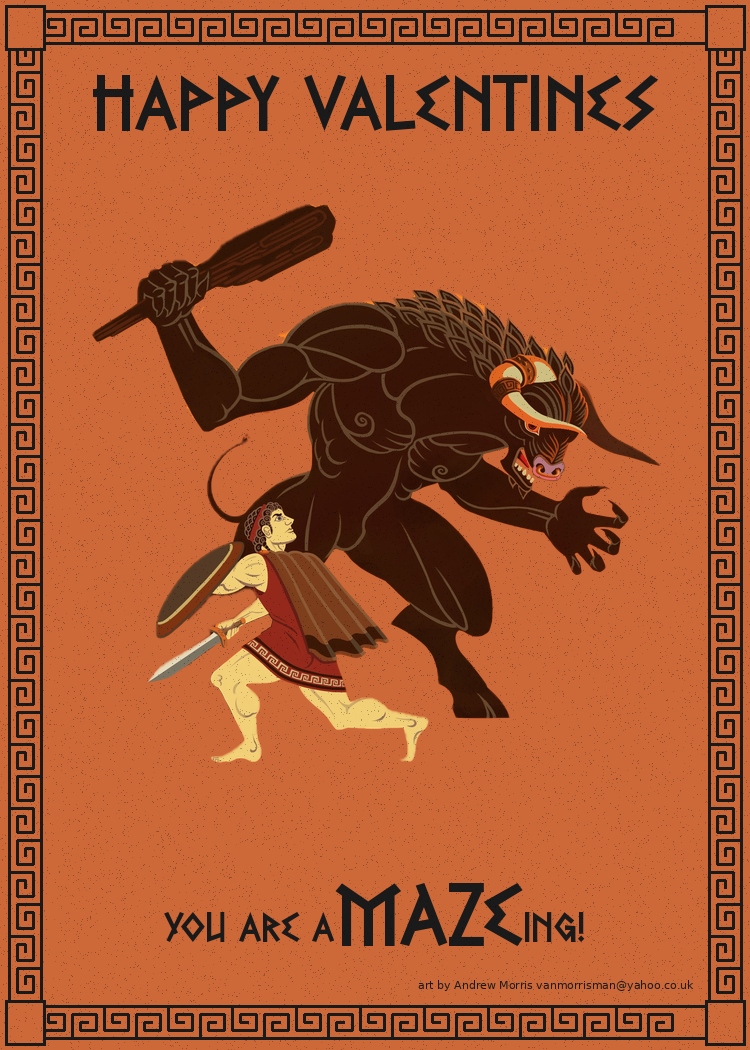
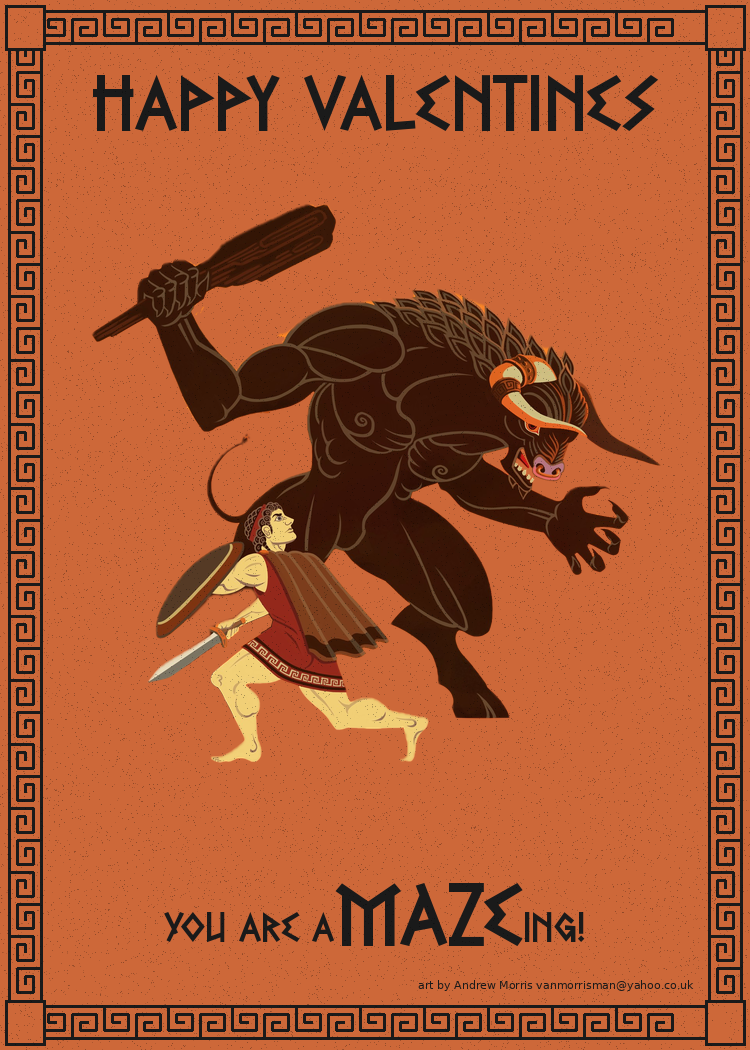
Refactor border drawing to shared function
Extract duplicated border code into draw_card_borders() function
used by both generate_greek_card_front() and generate_greek_card_back()

diff --git a/src/greek_design_system.py b/src/greek_design_system.py
@@ -151,6 +151,33 @@ def add_pottery_texture(image: Image) -> Image:
 
 
 # =============================================================================
+# SHARED BORDER DRAWING
+# =============================================================================
+
+def draw_card_borders(
+    draw: ImageDraw,
+    width: int,
+    height: int,
+    border_width: int = 40,
+    key_size: int = 32,
+    line_w: int = 3
+):
+    """Draw Greek key borders and corner squares (shared by front and back)."""
+    # Horizontal borders (top and bottom)
+    draw_greek_key_border(draw, border_width, 5, width - 2 * border_width, 45, key_size=key_size, line_width=line_w)
+    draw_greek_key_border(draw, border_width, height - 50, width - 2 * border_width, 45, key_size=key_size, line_width=line_w)
+
+    # Vertical borders (left and right)
+    draw_greek_key_border_vertical(draw, 5, border_width, 40, height - 2 * border_width, key_size=key_size, line_width=line_w)
+    draw_greek_key_border_vertical(draw, width - 45, border_width, 40, height - 2 * border_width, key_size=key_size, line_width=line_w)
+
+    # Corner squares
+    for corners in [(5, 5, 45, 50), (width - 45, 5, width - 5, 50),
+                    (5, height - 50, 45, height - 5), (width - 45, height - 50, width - 5, height - 5)]:
+        draw.rectangle(corners, fill=PALETTE.terracotta, outline=PALETTE.black, width=line_w)
+
+
+# =============================================================================
 # CARD GENERATORS
 # =============================================================================
 
@@ -165,19 +192,7 @@ def generate_greek_card_front(
     img = Image.new('RGB', (width, height), PALETTE.terracotta)
     draw = ImageDraw.Draw(img)
 
-    key_size = 32
-    line_w = 3
-
-    # Draw borders
-    draw_greek_key_border(draw, border_width, 5, width - 2 * border_width, 45, key_size=key_size, line_width=line_w)
-    draw_greek_key_border(draw, border_width, height - 50, width - 2 * border_width, 45, key_size=key_size, line_width=line_w)
-    draw_greek_key_border_vertical(draw, 5, border_width, 40, height - 2 * border_width, key_size=key_size, line_width=line_w)
-    draw_greek_key_border_vertical(draw, width - 45, border_width, 40, height - 2 * border_width, key_size=key_size, line_width=line_w)
-
-    # Corner squares
-    for corners in [(5, 5, 45, 50), (width - 45, 5, width - 5, 50),
-                    (5, height - 50, 45, height - 5), (width - 45, height - 50, width - 5, height - 5)]:
-        draw.rectangle(corners, fill=PALETTE.terracotta, outline=PALETTE.black, width=line_w)
+    draw_card_borders(draw, width, height, border_width)
 
     # Add minotaur artwork
     if minotaur_path:
@@ -281,19 +296,7 @@ def generate_greek_card_back(
     img = Image.new('RGB', (width, height), PALETTE.terracotta)
     draw = ImageDraw.Draw(img)
 
-    key_size = 32
-    line_w = 3
-
-    # Draw borders (matching front)
-    draw_greek_key_border(draw, border_width, 5, width - 2 * border_width, 45, key_size=key_size, line_width=line_w)
-    draw_greek_key_border(draw, border_width, height - 50, width - 2 * border_width, 45, key_size=key_size, line_width=line_w)
-    draw_greek_key_border_vertical(draw, 5, border_width, 40, height - 2 * border_width, key_size=key_size, line_width=line_w)
-    draw_greek_key_border_vertical(draw, width - 45, border_width, 40, height - 2 * border_width, key_size=key_size, line_width=line_w)
-
-    # Corner squares
-    for corners in [(5, 5, 45, 50), (width - 45, 5, width - 5, 50),
-                    (5, height - 50, 45, height - 5), (width - 45, height - 50, width - 5, height - 5)]:
-        draw.rectangle(corners, fill=PALETTE.terracotta, outline=PALETTE.black, width=line_w)
+    draw_card_borders(draw, width, height, border_width)
 
     return img
 
